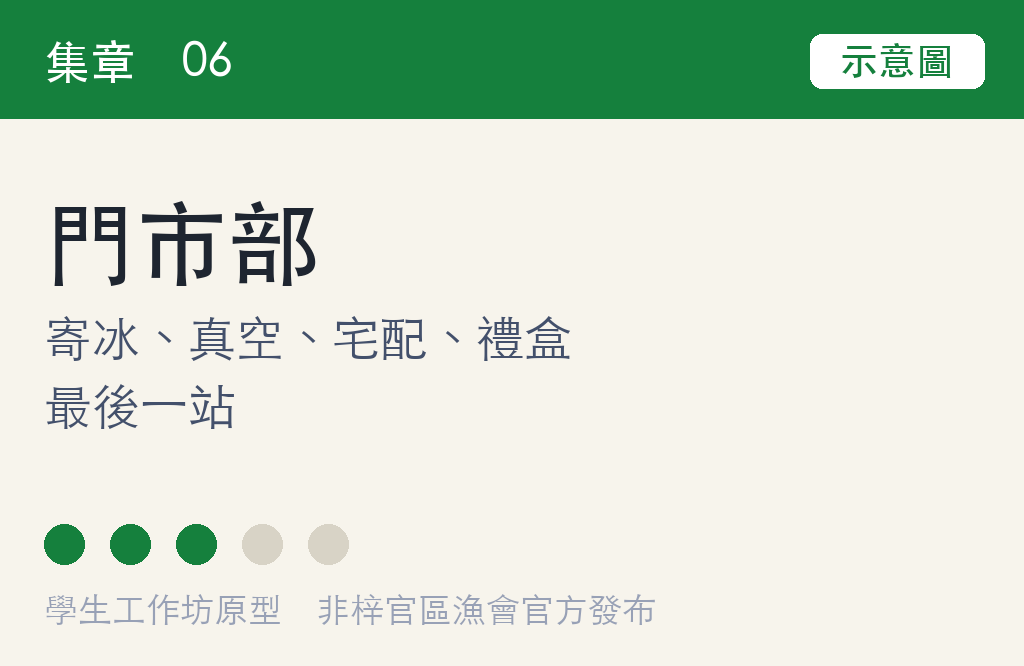
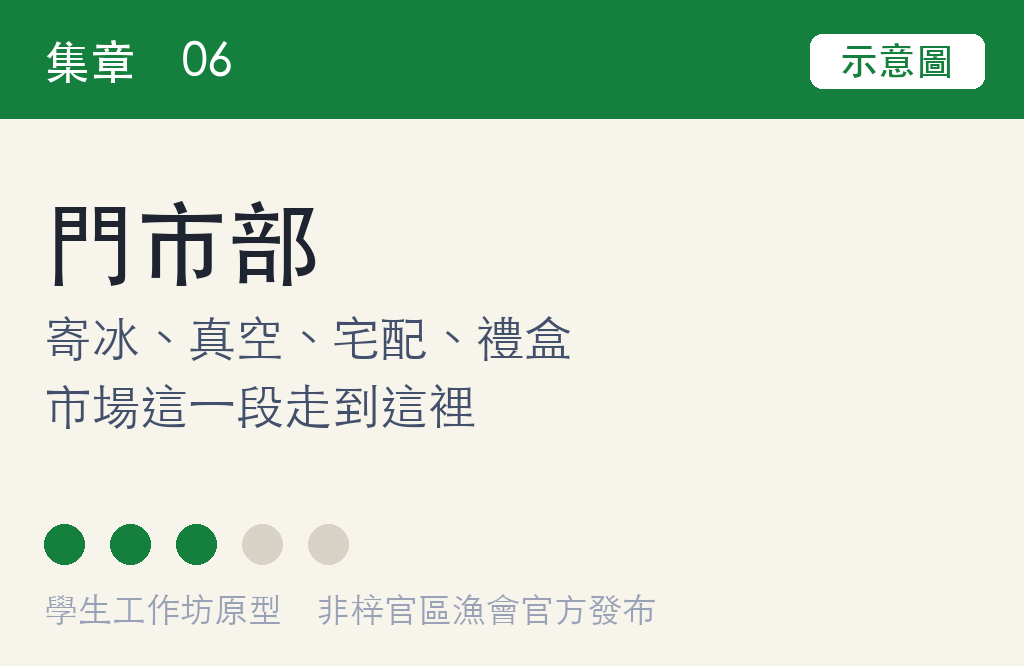
LINE 圖片全面更新：地圖縮圖改用實際座標並放大成 1:1、集章卡補齊八站、新增尋寶與優惠卡、拍賣看台正名為拍賣現場

Changed region(s): [[0.0312, 0.5706, 0.4688, 0.6607]]

diff --git a/map.html b/map.html
@@ -219,12 +219,12 @@ nav button.has .dot{display:block}
 <section class="pane on" id="p-news">
   <div class="quest">
     <div class="eye">今天的任務</div>
-    <h2>停車場是新手村。<br>八站走完，你就帶得走。</h2>
+    <h2>停車場是新手村。<br>走完六站，你就帶得走。</h2>
     <p>散在各處的東西，串成一條走得完的路。每一站有故事、有導航、有一個章。</p>
     <div class="row">
-      <div><b>8 站</b>全程約 90 分</div>
+      <div><b>6 站</b>市場全程 90 分</div>
       <div><b>4 站</b>趕時間 40 分</div>
-      <div><b>3 章</b>換第一張券</div>
+      <div><b>8 站</b>加兩站約半天</div>
     </div>
     <div class="btnrow"><button class="btn gd" data-go="map:">開始尋寶</button></div>
   </div>
@@ -261,7 +261,7 @@ nav button.has .dot{display:block}
 <!-- ══ 地圖 ══════════════════════════════ -->
 <section class="pane" id="p-map">
   <div class="h1">穿越尋寶之旅</div>
-  <p class="lead">八站走完約九十分鐘。趕時間就走前四站，四十分鐘。點圖上的圈或下面的名字都可以。</p>
+  <p class="lead">市場六站約九十分鐘，趕時間走四站四十分鐘。再往外的親子館與烏魚文化館，加起來大概半天。</p>
 
   <div class="maptabs" role="tablist">
     <button role="tab" data-m="hall" aria-selected="true">場域　八站</button>
@@ -475,8 +475,8 @@ const STOPS = [
  {id:"05",x:656,y:162,pv:false,t:"熟食區",role:"補給",sub:"炸物與小吃，不用等",
   d:"生食走到底就是熟食，中間沒有牆。<b>這一段不用排隊。</b>",
   story:"我們 8/8 跟到的那一組，最後在場域外面買了小吃就離開。",
-  map:G("蚵仔寮觀光魚市場"), to:{n:"拍賣看台",m:130,w:2}},
- {id:"03",x:789,y:340,pv:true,t:"拍賣看台",role:"看門道",sub:"魚市場大樓，中午 12:00 開拍",
+  map:G("蚵仔寮觀光魚市場"), to:{n:"拍賣現場",m:130,w:2}},
+ {id:"03",x:789,y:340,pv:true,t:"拍賣現場",role:"看門道",sub:"魚市場大樓，中午 12:00 開拍",
   d:"喊價的叫糶手，出價的是承銷人。一般民眾看歸看，買還是跟攤位買。",
   story:"<b>唯一看得到魚怎麼變成價格的地方。</b>當地把赤尾鯖、土魠、魩仔魚、烏魚叫四大金剛。",
   warn:"二樓沒有對外開放。要上去看拍賣先打 07-619-4103。",
